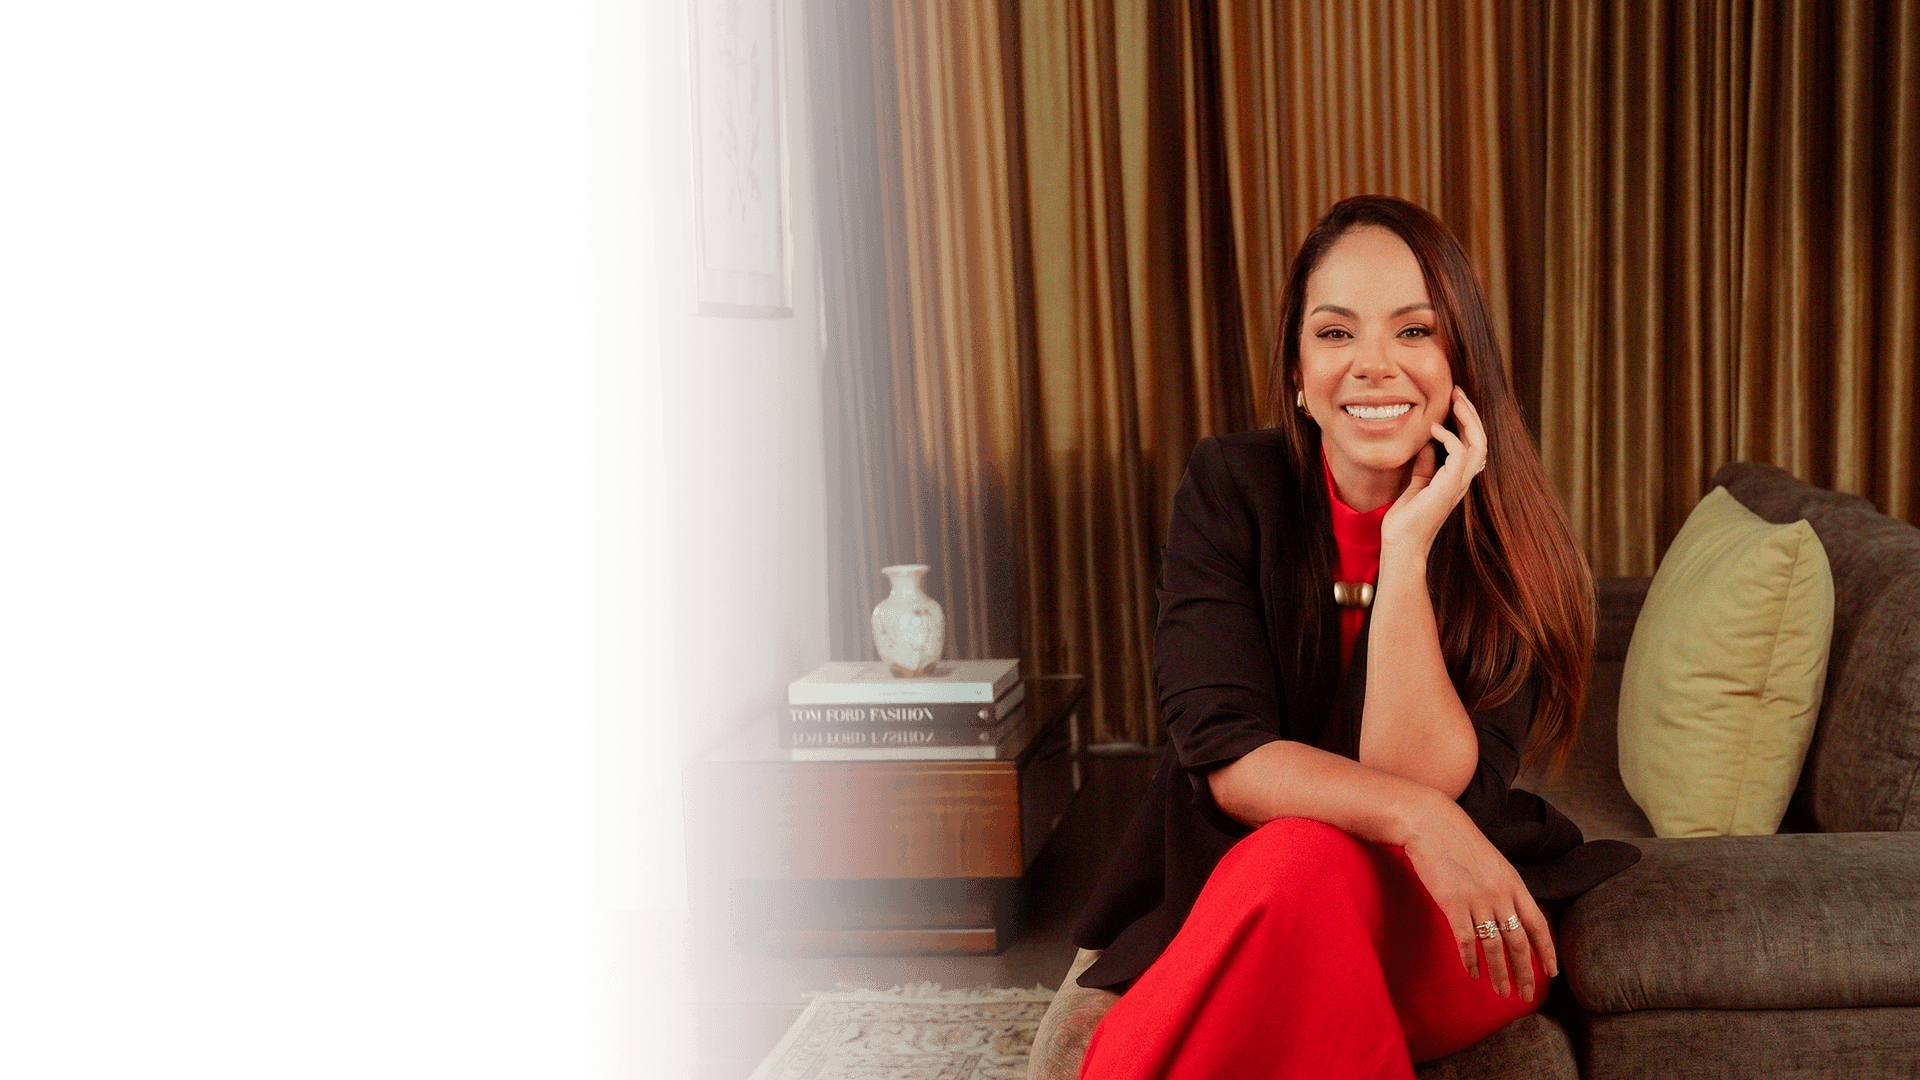
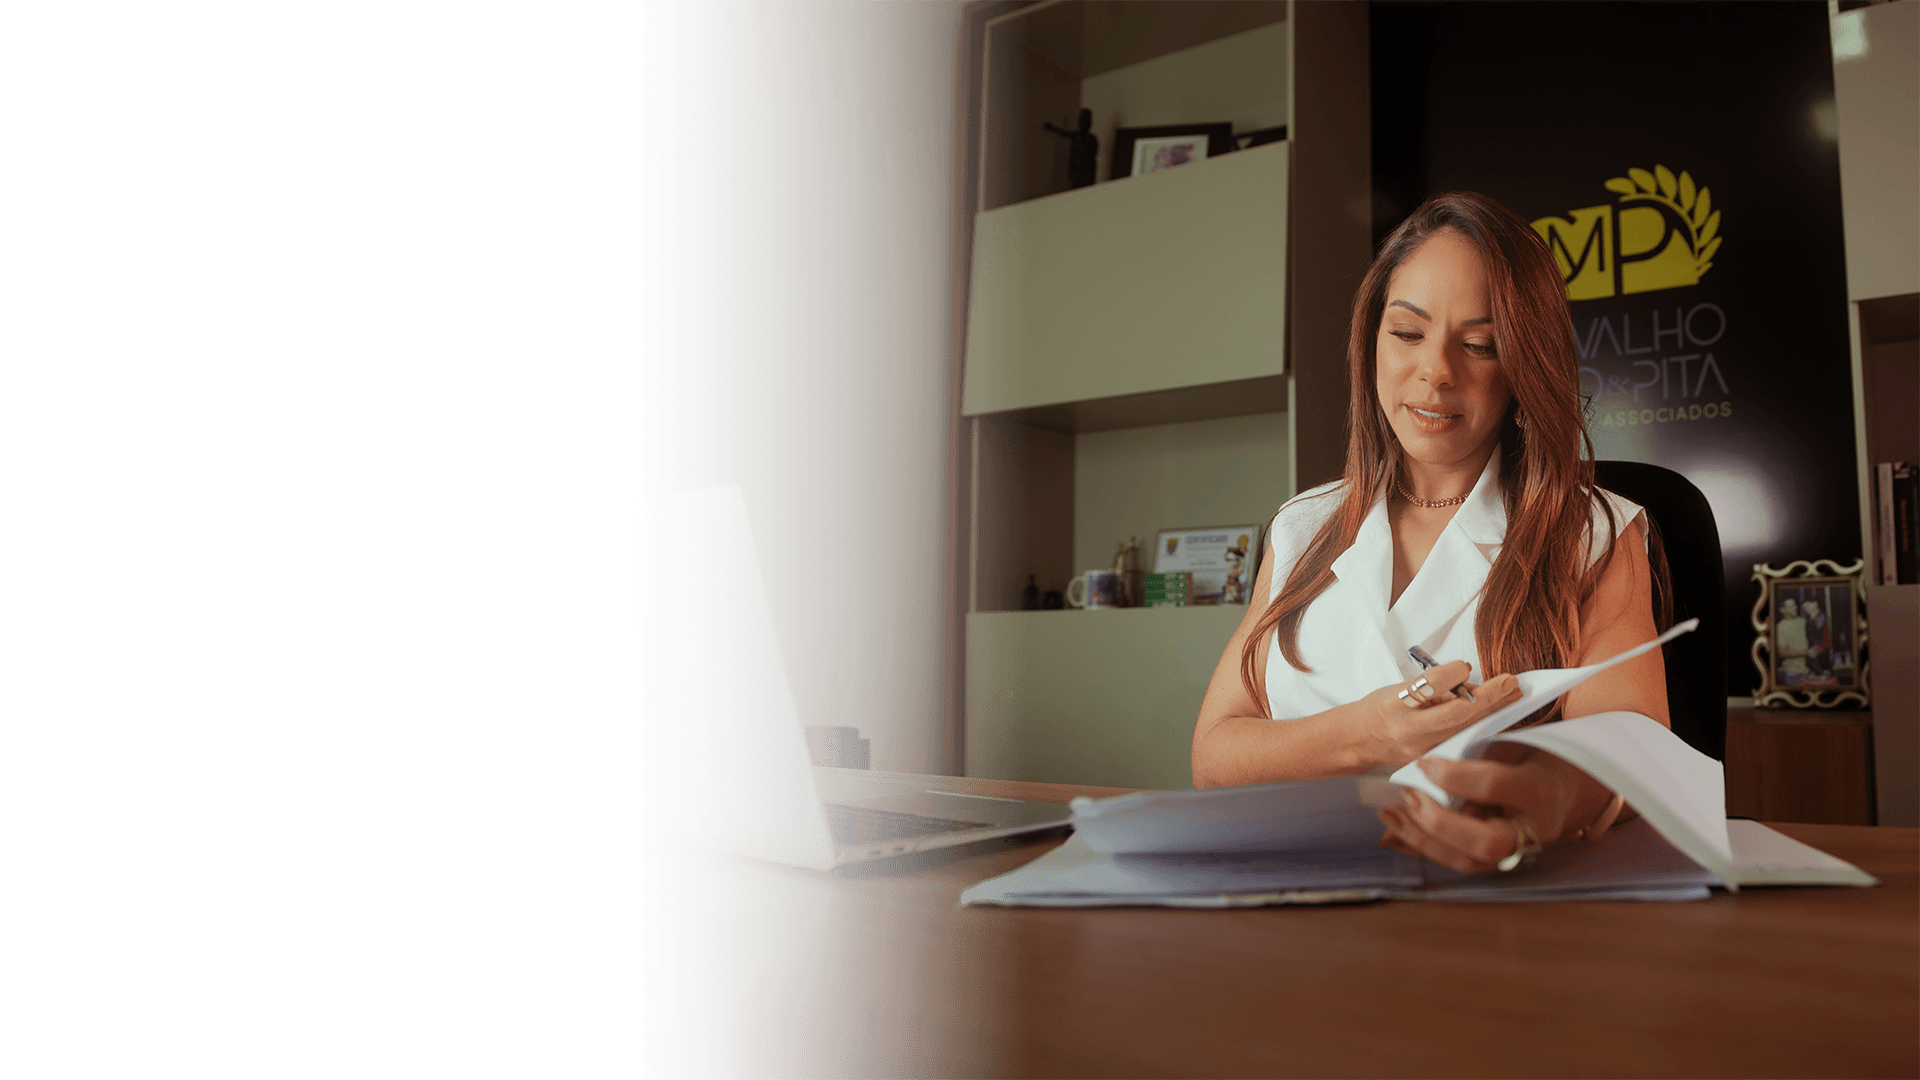
fix: refine responsive hero framing

diff --git a/index.php b/index.php
@@ -108,6 +108,9 @@ $areas = [
             .hero-photo { object-position:68% center; }
             .hero-overlay { background:linear-gradient(180deg,rgba(38,3,5,.78),rgba(63,7,10,.6) 44%,rgba(38,3,5,.92)); }
         }
+        @media (min-width:1024px) and (max-width:1279px) {
+            .hero-photo { object-position:68% center; }
+        }
     </style>
 <?php render_jost_weight_cap_styles(); ?>
 </head>
@@ -118,10 +121,10 @@ $areas = [
             <img src="<?php echo e($hero_image_url); ?>" alt="" aria-hidden="true" class="hero-photo absolute inset-0 h-full w-full object-cover">
             <div class="hero-overlay absolute inset-0"></div>
             <div class="relative mx-auto flex min-h-[780px] max-w-7xl items-center px-5 pb-16 pt-32 sm:min-h-screen lg:px-8">
-                <div class="max-w-[42rem] pt-10 reveal">
+                <div class="max-w-[42rem] pt-10 reveal sm:max-w-[29rem] md:max-w-[32rem] lg:max-w-[36rem] xl:max-w-[42rem]">
                     <p class="soft-radius inline-flex bg-cream/10 px-4 py-2 text-[11px] font-bold uppercase tracking-[0.18em] text-sand">Acidente de trabalho e doença ocupacional</p>
                     <h1 class="mt-7 font-serif text-[2.55rem] font-semibold leading-[1.02] sm:text-5xl lg:text-[4.25rem]">Seu trabalho deixou marcas na sua saúde?</h1>
-                    <p class="mt-6 max-w-[39rem] text-base leading-8 text-cream/85 lg:text-lg">Quando uma lesão, uma dor persistente ou um adoecimento começa a afetar sua rotina, entender o que aconteceu é o primeiro passo para cuidar da sua saúde e compreender seus direitos.</p>
+                    <p class="mt-6 max-w-[39rem] text-base leading-8 text-cream/85 sm:max-w-[28rem] md:max-w-[31rem] lg:max-w-[34rem] xl:max-w-[39rem] lg:text-lg">Quando uma lesão, uma dor persistente ou um adoecimento começa a afetar sua rotina, entender o que aconteceu é o primeiro passo para cuidar da sua saúde e compreender seus direitos.</p>
                     <div class="mt-9 flex flex-col items-start gap-4 sm:flex-row sm:items-center">
                         <a href="<?php echo e($whatsapp_link); ?>" target="_blank" rel="noopener" class="soft-radius inline-flex min-h-14 items-center justify-center gap-2 border border-white bg-white px-7 py-4 text-xs font-bold uppercase tracking-[0.14em] text-wineDark transition hover:bg-paper"><?php echo ph_icon('whatsapp-logo', 'text-xl'); ?> Conversar sobre meu caso</a>
                         <a href="#situacoes" class="text-xs font-bold uppercase tracking-[0.15em] text-cream/80 transition hover:text-sand">Entender melhor <?php echo ph_icon('arrow-down', 'ml-2 inline text-base'); ?></a>